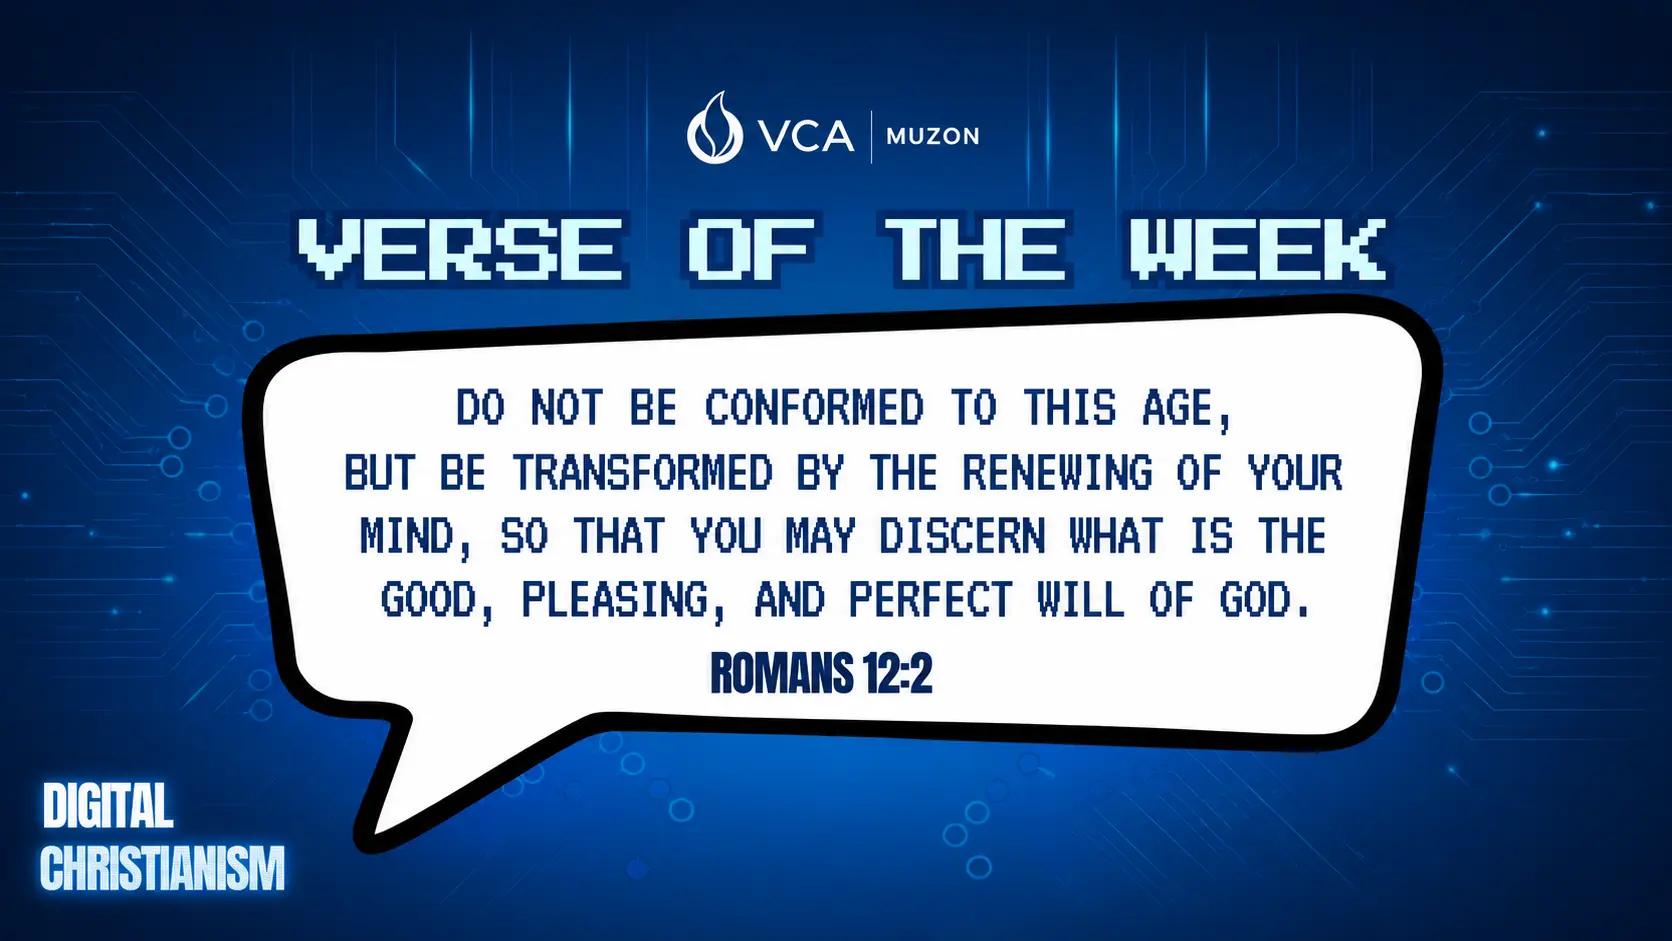
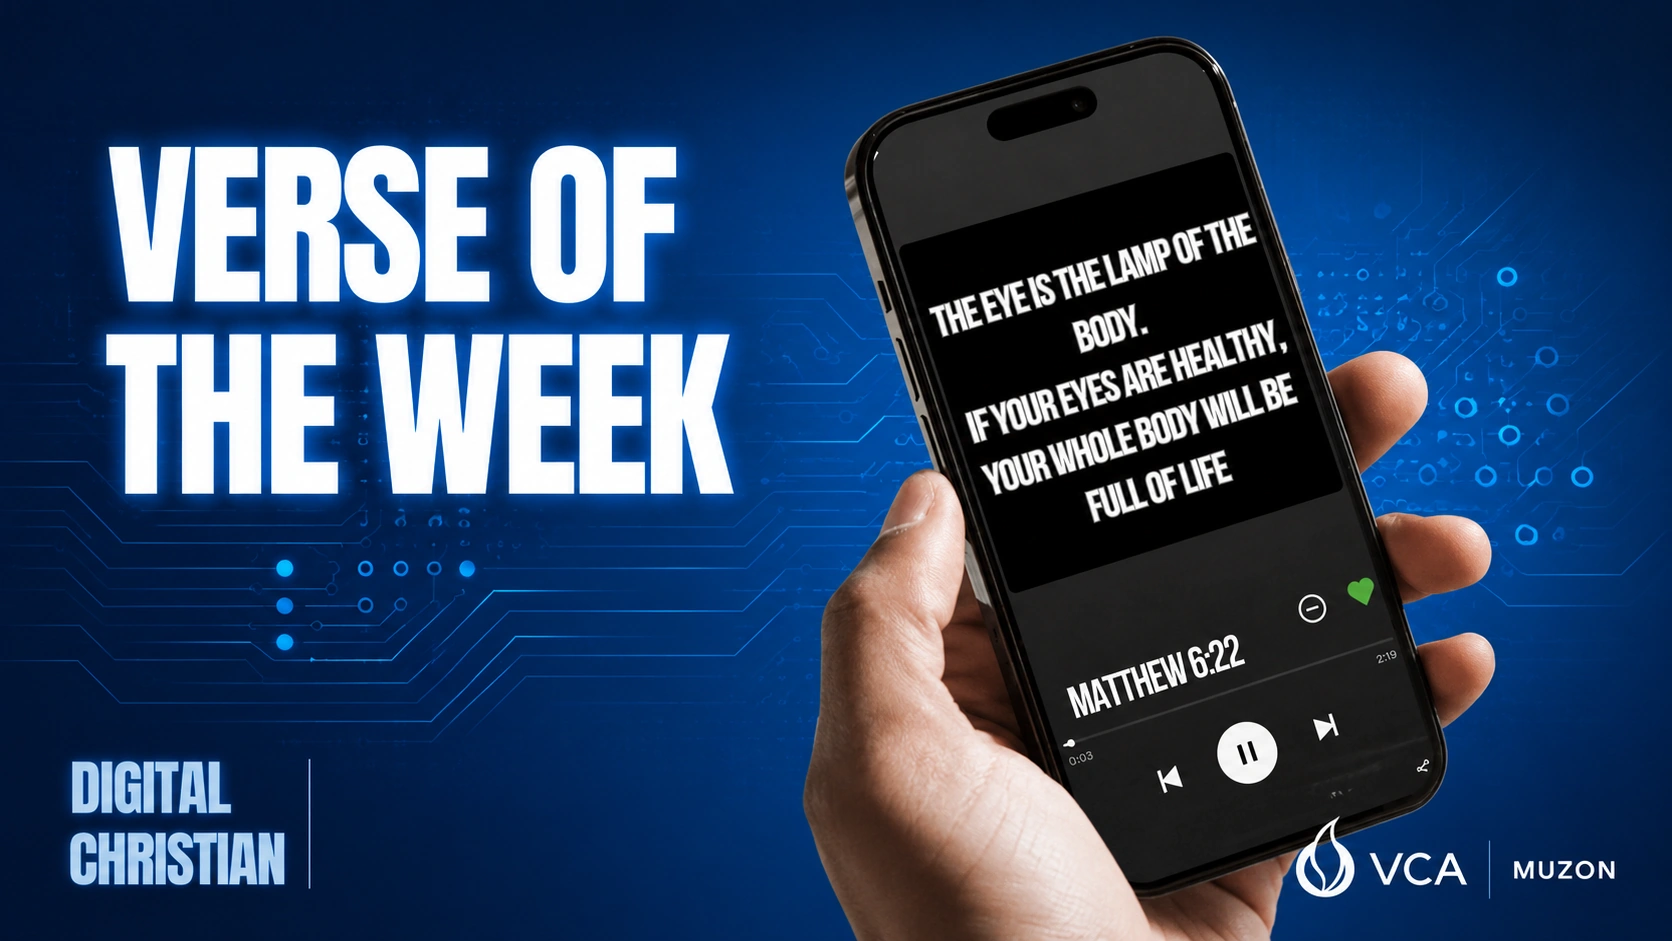
Synchronize website content and assets

diff --git a/preachings.html b/preachings.html
@@ -59,11 +59,11 @@
             <div class="featured-preaching-layout">
                 <div class="video-wrapper">
                     <a
-                    href="https://www.youtube.com/live/QZpXZKfki-U?si=e6OvhLs5RZx4hM8C"
+                    href="https://www.youtube.com/live/5y8w6o9Ang8?si=HulFJuc0B_3ph3kl"
                     target="_blank"
                     rel="noopener noreferrer"
                     class="video-link">
-                        <img src="assets/preachings/latest_preaching_img.png" alt="Latest Preaching">  
+                        <img src="assets/preachings/latest_preaching_img.webp" alt="Latest Preaching">  
                         <div class="play-button">
                             ▶
                         </div>
@@ -71,14 +71,14 @@
                 </div>
 
                 <div class="featured-preaching-content">
-                    <h3>Digital Christianism: Tool or Master?</h3>
+                    <h3>The Kingdom Ox | Taking Intiative with AI</h3>
                     <p class="preaching-meta">
                         PTR. Boaz Crescini<br>
-                        June 28, 2026
+                        July 19, 2026
                     </p>            
                     <p>
-                        Technology was meant to be a tool—not a master.
-                        In a world of endless scrolling, notifications, and algorithms competing for our attention, how do we stay faithful and keep Christ at the center?
+                        Join us as we explore how God calls us to work with wisdom, faith and purpose—using every opportunity and tool to advance His kingdom. 
+                        Don't miss this timely message on living with courage, diligence, and biblical perspective in a changing world.
                     </p>       
                 </div>
             </div>            
@@ -92,6 +92,57 @@
             </div>
 
             <div class="preachings-grid">
+
+                <div class="preaching-card">
+                    <a 
+                        href="https://www.youtube.com/live/C2RfR5jmC4c?si=lVxS5Lzj7E6Sx3ww"
+                        target="_blank"
+                        rel="noopener noreferrer">
+                        <div class="preaching-thumb">
+                            <img 
+                                src="assets/preachings/071226.webp" 
+                                alt="Preaching Thumbnail">
+                            <span>1:49:03</span>
+                        </div>
+
+                        <h3>Reclaiming Presence</h3>
+                        <p>PTR. Boaz Crescini<br>July 12, 2026</p>
+                    </a>
+                </div>  
+
+                <div class="preaching-card">
+                    <a 
+                        href="https://www.youtube.com/live/bW0R8nsbLrk?si=w6M0eVM2ypIUVWWl"
+                        target="_blank"
+                        rel="noopener noreferrer">
+                        <div class="preaching-thumb">
+                            <img 
+                                src="assets/preachings/070526.webp" 
+                                alt="Preaching Thumbnail">
+                            <span>1:42:09</span>
+                        </div>
+
+                        <h3>Guarding the Scroll</h3>
+                        <p>PTR. Boaz Crescini<br>July 05, 2026</p>
+                    </a>
+                </div>  
+
+                <div class="preaching-card">
+                    <a 
+                        href="https://www.youtube.com/live/9EHHude2c_8?si=qn1D0zwLfCkE7Pow"
+                        target="_blank"
+                        rel="noopener noreferrer">
+                        <div class="preaching-thumb">
+                            <img 
+                                src="assets/preachings/062126.png" 
+                                alt="Preaching Thumbnail">
+                            <span>1:42:09</span>
+                        </div>
+
+                        <h3>Digital Christianism: Tool or Master?</h3>
+                        <p>PTR. Boaz Crescini<br>June 28, 2026</p>
+                    </a>
+                </div>  
 
                 <div class="preaching-card">
                     <a 
@@ -143,57 +194,6 @@
                         <p>PTR. Boaz Crescini<br>June 7, 2026</p>
                     </a>
                 </div>  
-
-                <div class="preaching-card">
-                    <a 
-                        href="https://www.youtube.com/live/zJK1mSYQvUI?si=i4zRR3ryqYP9EJ17"
-                        target="_blank"
-                        rel="noopener noreferrer">
-                        <div class="preaching-thumb">
-                            <img 
-                                src="assets/preachings/053126.png" 
-                                alt="Preaching Thumbnail">
-                            <span>1:51:43</span>
-                        </div>
-
-                        <h3>A fresh voice. The same Gospel. 🙌</h3>
-                        <p>PTR. Greg Gervais<br>May 31, 2026</p>
-                    </a>
-                </div>
-
-                <div class="preaching-card">
-                    <a 
-                        href="https://www.youtube.com/live/z8qsgDkADf0?si=6m9jmhKFeAZrThat"
-                        target="_blank"
-                        rel="noopener noreferrer">
-                        <div class="preaching-thumb">
-                            <img 
-                                src="assets/preachings/052426.png" 
-                                alt="Preaching Thumbnail">
-                            <span>1:29:48</span>
-                        </div>
-
-                        <h3>Reach: Leaving Good for God's Great</h3>
-                        <p>PTR. Boaz Crescini<br>May 24, 2026</p>
-                    </a>
-                </div>
-
-                <div class="preaching-card">
-                    <a 
-                        href="https://www.youtube.com/live/sEZCm_6vnG8?si=y2CSG2P9_7eNaJLZ"
-                        target="_blank"
-                        rel="noopener noreferrer">
-                        <div class="preaching-thumb">
-                            <img 
-                                src="assets/preachings/051726.png" 
-                                alt="Preaching Thumbnail">
-                            <span>1:32:30</span>
-                        </div>
-
-                        <h3>Align: The Mind of the King</h3>
-                        <p>PTR. Boaz Crescini<br>May 17, 2026</p>
-                    </a>
-                </div>
  
             </div>
 

diff --git a/events.html b/events.html
@@ -58,96 +58,28 @@
             <div class="events-grid">
                 <div class="event-card">
                     <div class="event-image">
-                        <img src="assets/events/dvbs.jpg" alt="Daily Vacation Bible School">
+                        <img src="assets/events/young-couples.webp" alt="Young Couples Fellowship">
 
                         <div class="event-date">
-                            <span>MAY</span>
-                            <strong>6-8</strong>
-                            <small>Wed-Fri</small>
-                        </div>
-                    </div>
-
-                    <div class="event-content">
-                        <h3>Daily Vacation Bible School</h3>
-                        <p>Little hearts, big faith 🤍 We’re excited to welcome the kids for DVBS</p>
-                        <p>Join us for 3 days of fun, learning, and growing in God’s Word.</p>
-                    </div>
-
-                    <div class="event-details">
-                        <span>🕒 9:00AM</span>
-                        <span>📍 Marigold Village</span>
-                    </div>
-                </div>
-
-                <div class="event-card">
-                    <div class="event-image">
-                        <img src="assets/events/church_anniversary.jpg" alt="Church Anniversary">
-
-                        <div class="event-date">
-                            <span>APRIL</span>
-                            <strong>26</strong>
+                            <span>JULY</span>
+                            <strong>19</strong>
                             <small>Sunday</small>
                         </div>
                     </div>
 
                     <div class="event-content">
-                        <h3>Church Anniversary</h3>
-                        <p>𝐂𝐡𝐮𝐫𝐜𝐡 + 𝐅𝐚𝐦𝐢𝐥𝐲 + 𝐒𝐰𝐢𝐦𝐦𝐢𝐧𝐠? 👀💦</p>
-                        <p>Better Together: Together as Families ❤️ (Genesis 2:24)</p>
+                        <h3>Young Couples' Fellowship</h3>
+                        <p>Strong marriages don’t happen by chance—they’re built together, with God at the center. </p>
+                        <p>Young Couples, let’s take time to grow in faith, strengthen our relationships, and encourage one another as we walk this journey together.</p>
                     </div>
 
                     <div class="event-details">
-                        <span>🕒 9:00AM</span>
-                        <span>📍 Ventasha Resort and Pavillion</span>
+                        <span>🕒 After the 4:30 PM Sunday Service</span>
+                        <span>📍 VCA Muzon</span>
                     </div>
                 </div>
 
-                <div class="event-card">
-                    <div class="event-image">
-                        <img src="assets/events/water_baptism.jpg" alt="Water Baptism">
 
-                        <div class="event-date">
-                            <span>APRIL</span>
-                            <strong>26</strong>
-                            <small>Sunday</small>
-                        </div>
-                    </div>
-
-                    <div class="event-content">
-                        <h3>Water Baptism</h3>
-                        <p>Water Baptism is happening this Sunday at our Church Anniversary </p>
-                        <p>Water baptism will take place right after the church service.</p>
-                    </div>
-
-                    <div class="event-details">
-                        <span>🕒 9:00AM</span>
-                        <span>📍 Ventasha Resort and Pavillion</span>
-                    </div>
-                </div>
-
-                <div class="event-card">
-                    <div class="event-image">
-                        <img src="assets/events/egr.jpg" alt="Encounter God Retreat">
-
-                        <div class="event-date">
-                            <span>APRIL</span>
-                            <strong>3</strong>
-                            <small>Friday</small>
-                        </div>
-                    </div>
-
-                    <div class="event-content">
-                        <h3>Encounter God Retreat</h3>
-                        <p>Ready for something real?</p>
-                        <p>Not routine. Not religion. But a true encounter with God.</p>
-                        <p>Let’s seek Him together and experience His presence like never before.</p>
-                    </div>
-
-                    <div class="event-details">
-                        <span>🕒 7:00AM</span>
-                        <span>📍 2nd Flr Muzon Central Terminal</span>
-                    </div>
-                </div>
             </div>
         </section>
         

diff --git a/index.html b/index.html
@@ -174,7 +174,7 @@
 
                 <div class="announcement-slide">
                     <img
-                        src="assets/home/carousel/midweek.webp"
+                        src="assets/home/carousel/midweek.svg"
                         alt="Midweek Service"
                         class="announcement-image"
                         width="1200"
@@ -184,10 +184,10 @@
                     <div class="announcement-content">
                         <h3>Midweek Service</h3>
                         <p>
-                            Life gets busy, but God is always worth making time for.
+                            You’ve made it this far—God will carry you through the rest. 
                         </p>
                         <p>
-                            Join us this Thursday as we worship, pray, and grow together.
+                            Join us every Thursday as we recharge in His presence.
                         </p>
                     </div>
                 </div>
@@ -204,35 +204,14 @@
                         loading="lazy"
                     >
                     <div class="announcement-content">
-                        <h3>See you this Sunday!</h3>
+                        <h3>Come and be renewed this Sunday.</h3>
                         <p>
-                            This is the day that the Lord has made; we will rejoice and be glad in it. – Psalm 118:24
+                            No matter how your week went, God’s presence is waiting for you. 
                         </p>
                     </div>
                 </div>
 
                 <!-- SLIDE 5 -->
-
-                <div class="announcement-slide">
-                    <img
-                        src="assets/home/carousel/youth_service.webp"
-                        alt="Youth Service"
-                        class="announcement-image"
-                        width="1200"
-                        height="675"
-                        loading="lazy"
-                    >
-                    <div class="announcement-content">
-
-                        <h3>𝗥𝗚 𝘅 𝗦𝗔 𝗝𝗼𝗶𝗻𝘁-𝗳𝗲𝗹𝗹𝗼𝘄𝘀𝗵𝗶𝗽, 𝗔𝗻𝗼 𝗧𝗮𝗿𝗮?!!</h3>
-                        <p>
-                            This is exciting guys, Makakasama natin mga ates at kuyas from Single Adults Ministry this coming Sunday.
-                            Let's enjoy worship, word, fellowship and food together. Kaya ano Tara? Invite your friends and see you! 😊✨
-                        </p>
-                    </div>
-                </div>
-
-                <!-- SLIDE 6 -->
 
                 <div class="announcement-slide">
                     <img
@@ -245,13 +224,35 @@
                     >
                     <div class="announcement-content">
                         <a
-                            href="https://www.facebook.com/share/p/18wGouEfDt/"
+                            href="https://www.facebook.com/share/p/1BdANJxKrn/"
                             target="_blank"
                             class="announcement-btn">
                             Read Reflection →
                         </a>
                     </div>
                 </div>
+
+                <!-- SLIDE 6 -->
+
+                <div class="announcement-slide">
+                    <img
+                        src="assets/home/carousel/youth-service.webp"
+                        alt="Youth Service"
+                        class="announcement-image"
+                        width="1200"
+                        height="675"
+                        loading="lazy"
+                    >
+                    <div class="announcement-content">
+                        <h3>𝗧𝗵𝗲𝗿𝗲'𝘀 𝗻𝗼 𝗯𝗲𝘁𝘁𝗲𝗿 𝗽𝗹𝗮𝗰𝗲 𝘁𝗼 𝗯𝗲 𝗲𝘃𝗲𝗿𝘆 𝗦𝘂𝗻𝗱𝗮𝘆 𝘁𝗵𝗮𝗻 𝗶𝗻 𝘁𝗵𝗲 𝗽𝗿𝗲𝘀𝗲𝗻𝗰𝗲 𝗼𝗳 𝗝𝗲𝘀𝘂𝘀.</h3>
+                        <p>
+                            Let's worship together, be encouraged by God's Word, and be refreshed in His presence.<br>
+                            ░▒▓▆▅▃▂▁𝐒𝐞𝐞 𝐲𝐨𝐮 𝐭𝐡𝐢𝐬 𝐒𝐮𝐧𝐝𝐚𝐲, 𝐑𝐆!▁▂▃▅▆▓▒░ 
+                        </p>
+                    </div>
+                </div>
+
+
 
                 <!-- NEXT BUTTON -->
 

diff --git a/js/vca_js.js b/js/vca_js.js
@@ -388,7 +388,7 @@ function startHeroVideos() {
     }
 
     showHeroVideo(heroVideoIndex);
-  }, 8000);
+  }, 4000);
 }
 
 function resetHeroIdleTimer() {
@@ -408,7 +408,7 @@ if (landingHero && heroVideos.length > 0) {
 
   heroIdleTimer = setTimeout(() => {
     startHeroVideos();
-  }, 5000);
+  }, 1000);
 
   landingHero.addEventListener("mousemove", resetHeroIdleTimer);
   landingHero.addEventListener("touchstart", resetHeroIdleTimer);

diff --git a/ministries.html b/ministries.html
@@ -92,7 +92,7 @@
 
                 <div class="ministry-card">
                     <img
-                        src="assets/ministries/intercessory_ministry_img.png"
+                        src="assets/ministries/intercessory_ministry_img.webp"
                         alt="Intercessory Ministry"
                     >
                     <div class="ministry-icon">🙏</div>